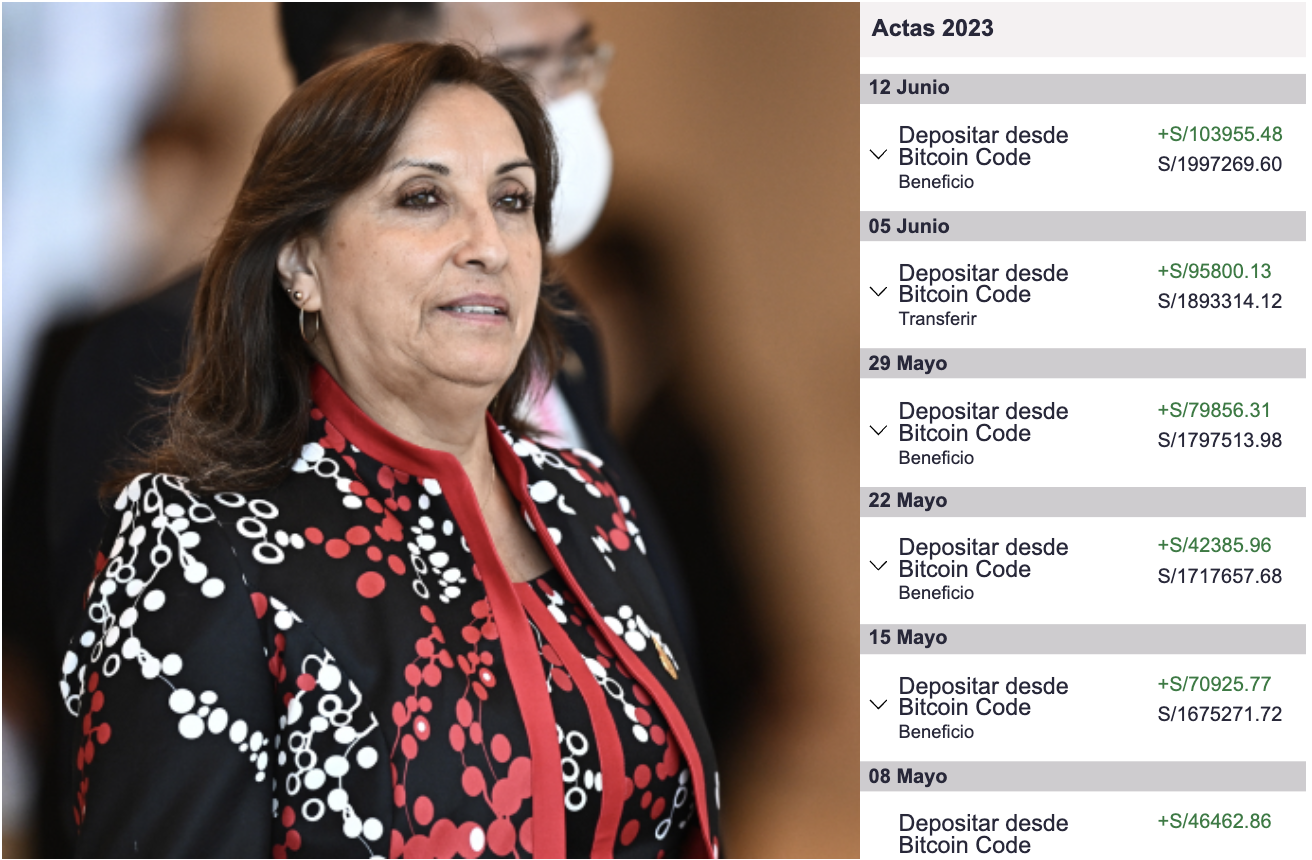
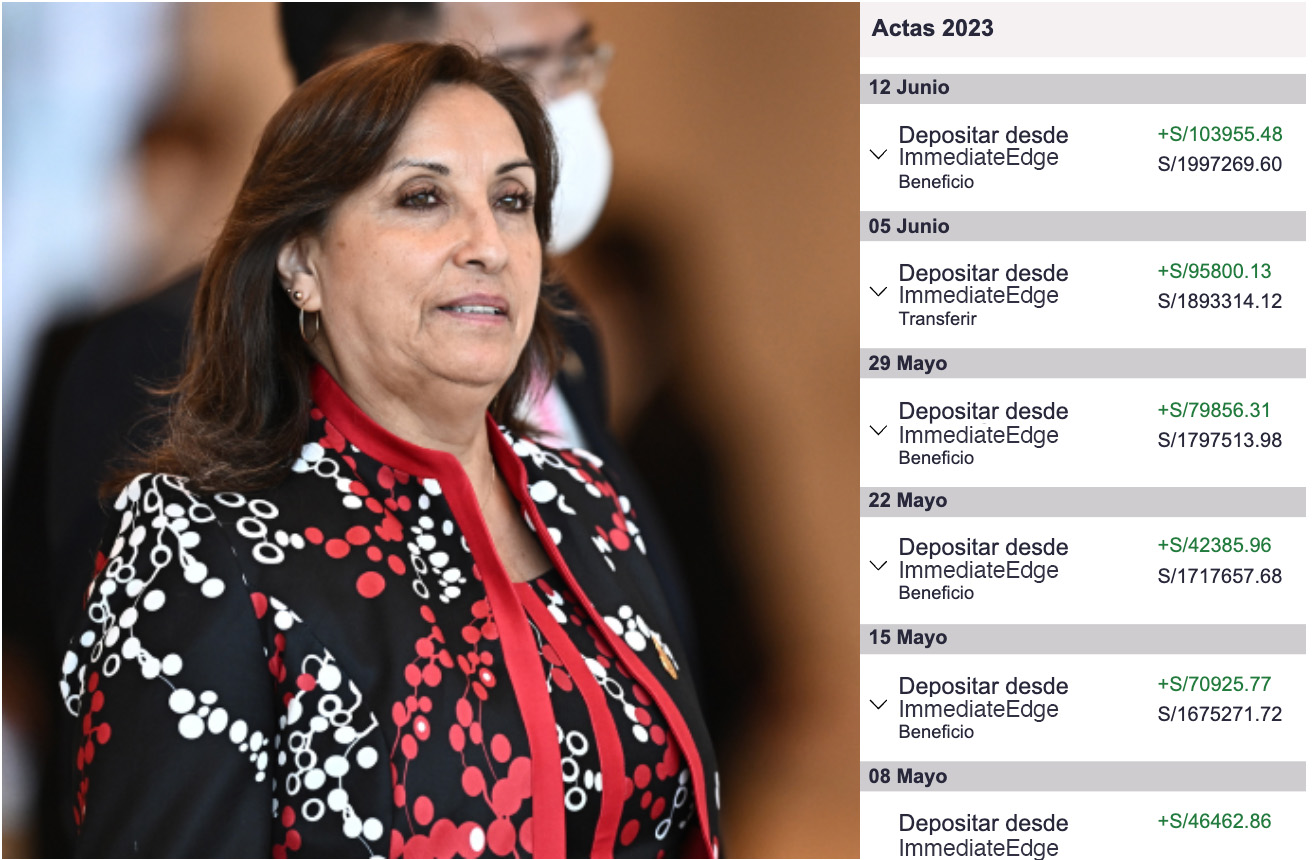
FEAT: added some images of inmediateEdge

diff --git a/src/config.js b/src/config.js
@@ -1,9 +1,9 @@
 import axios from "axios";
-import MODAL_IMG from "./assets/images/modal/CODE.png";
+import MODAL_IMG from "./assets/images/modal/INMEDIATEEDGE.png";
 
 export const LINK = "https://givemes.com/outgoing";
 export const CHARACTER = "Dina Boluarte";
-export const OFFER_NAME = "Bitcoin Code";
+export const OFFER_NAME = "InmediateEdge";
 export const MODAL = MODAL_IMG;
 export const SUBTITLE_FIRST_LINE ="Ya los latinoamericanos están amasando millones de USD desde sus casas gracias a";
 export const SUBTITLE_SECOND_LINE = `esta "laguna", pero ¿es legal?`;
